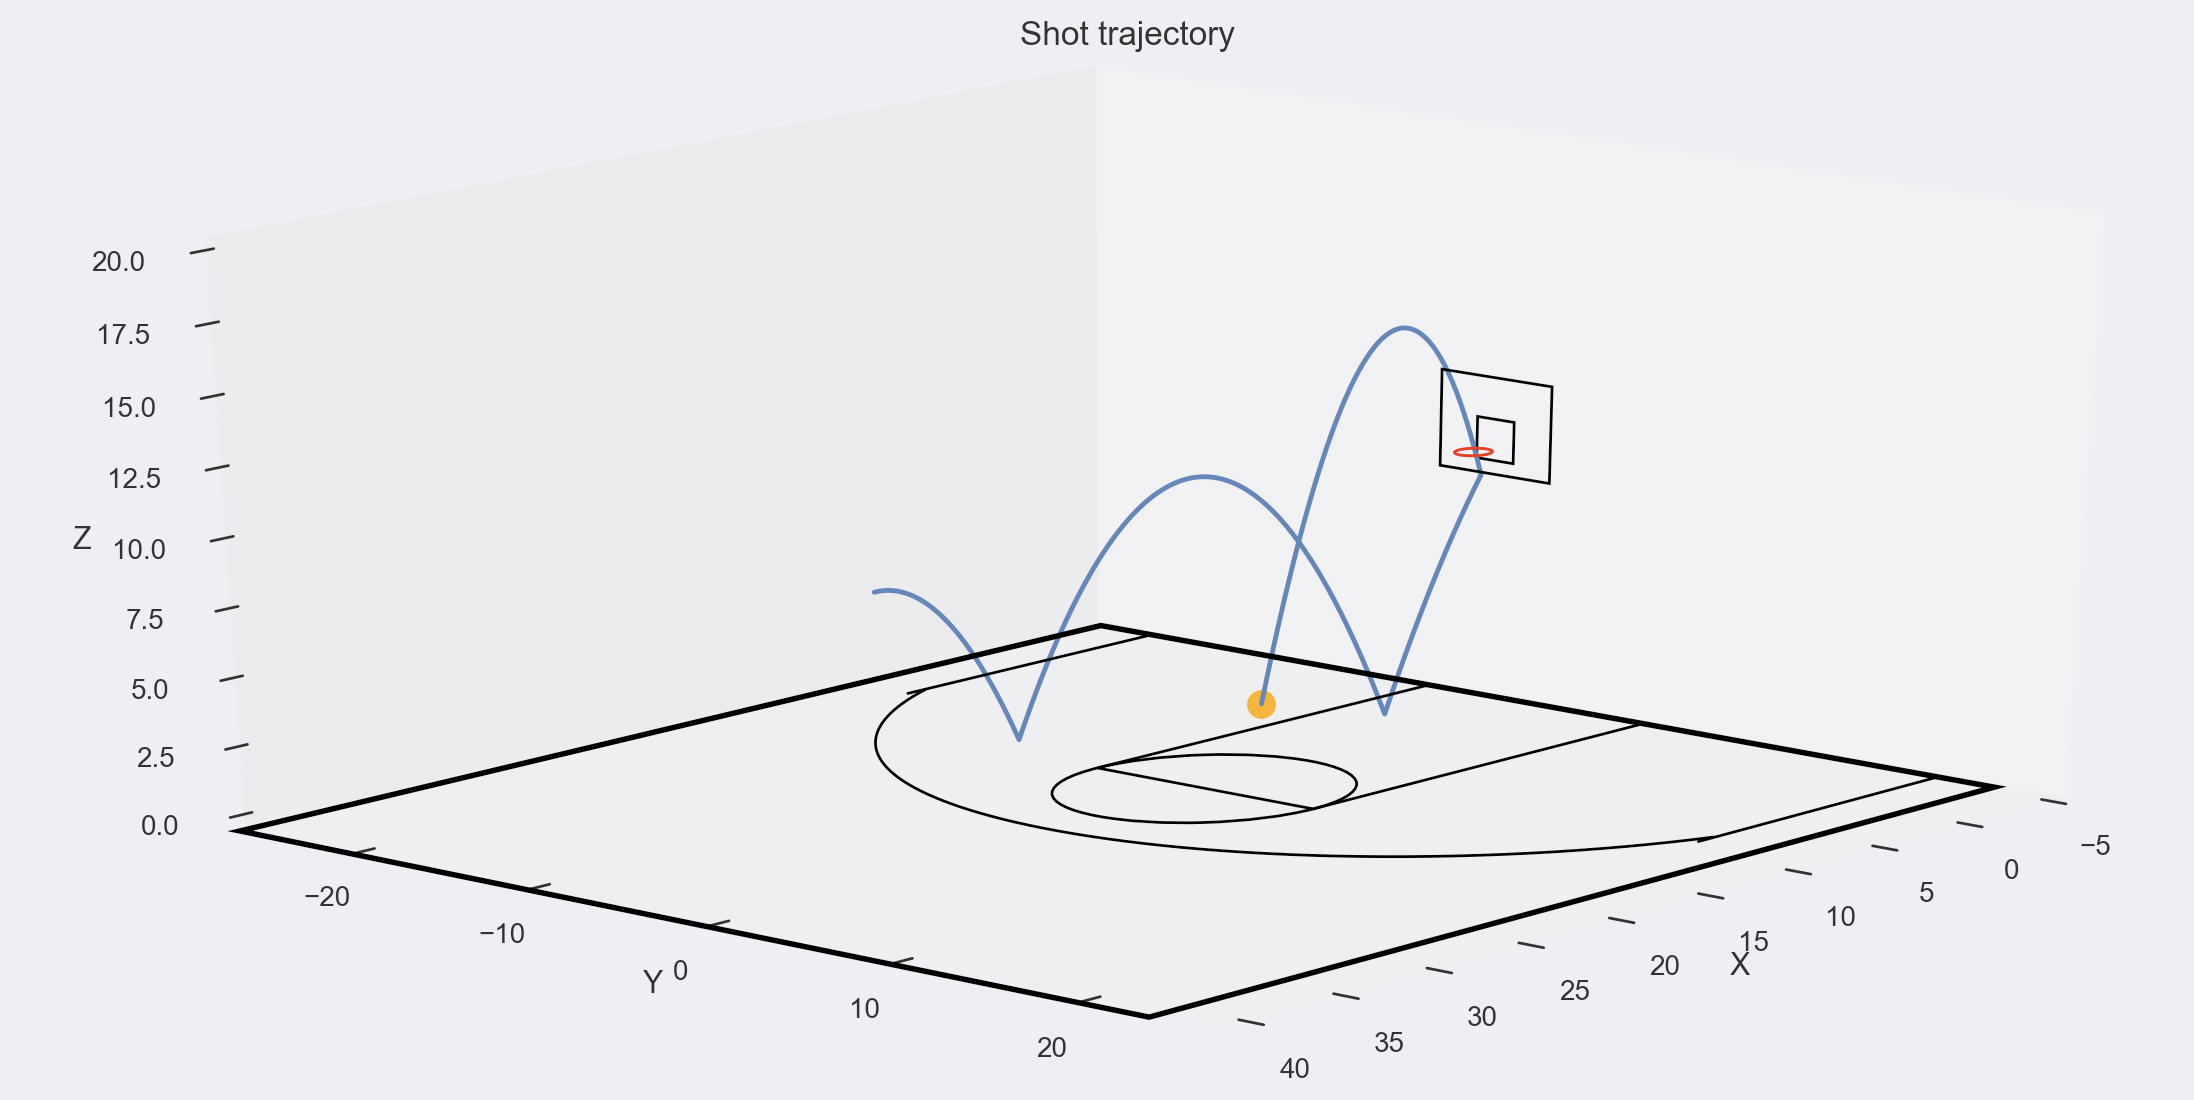
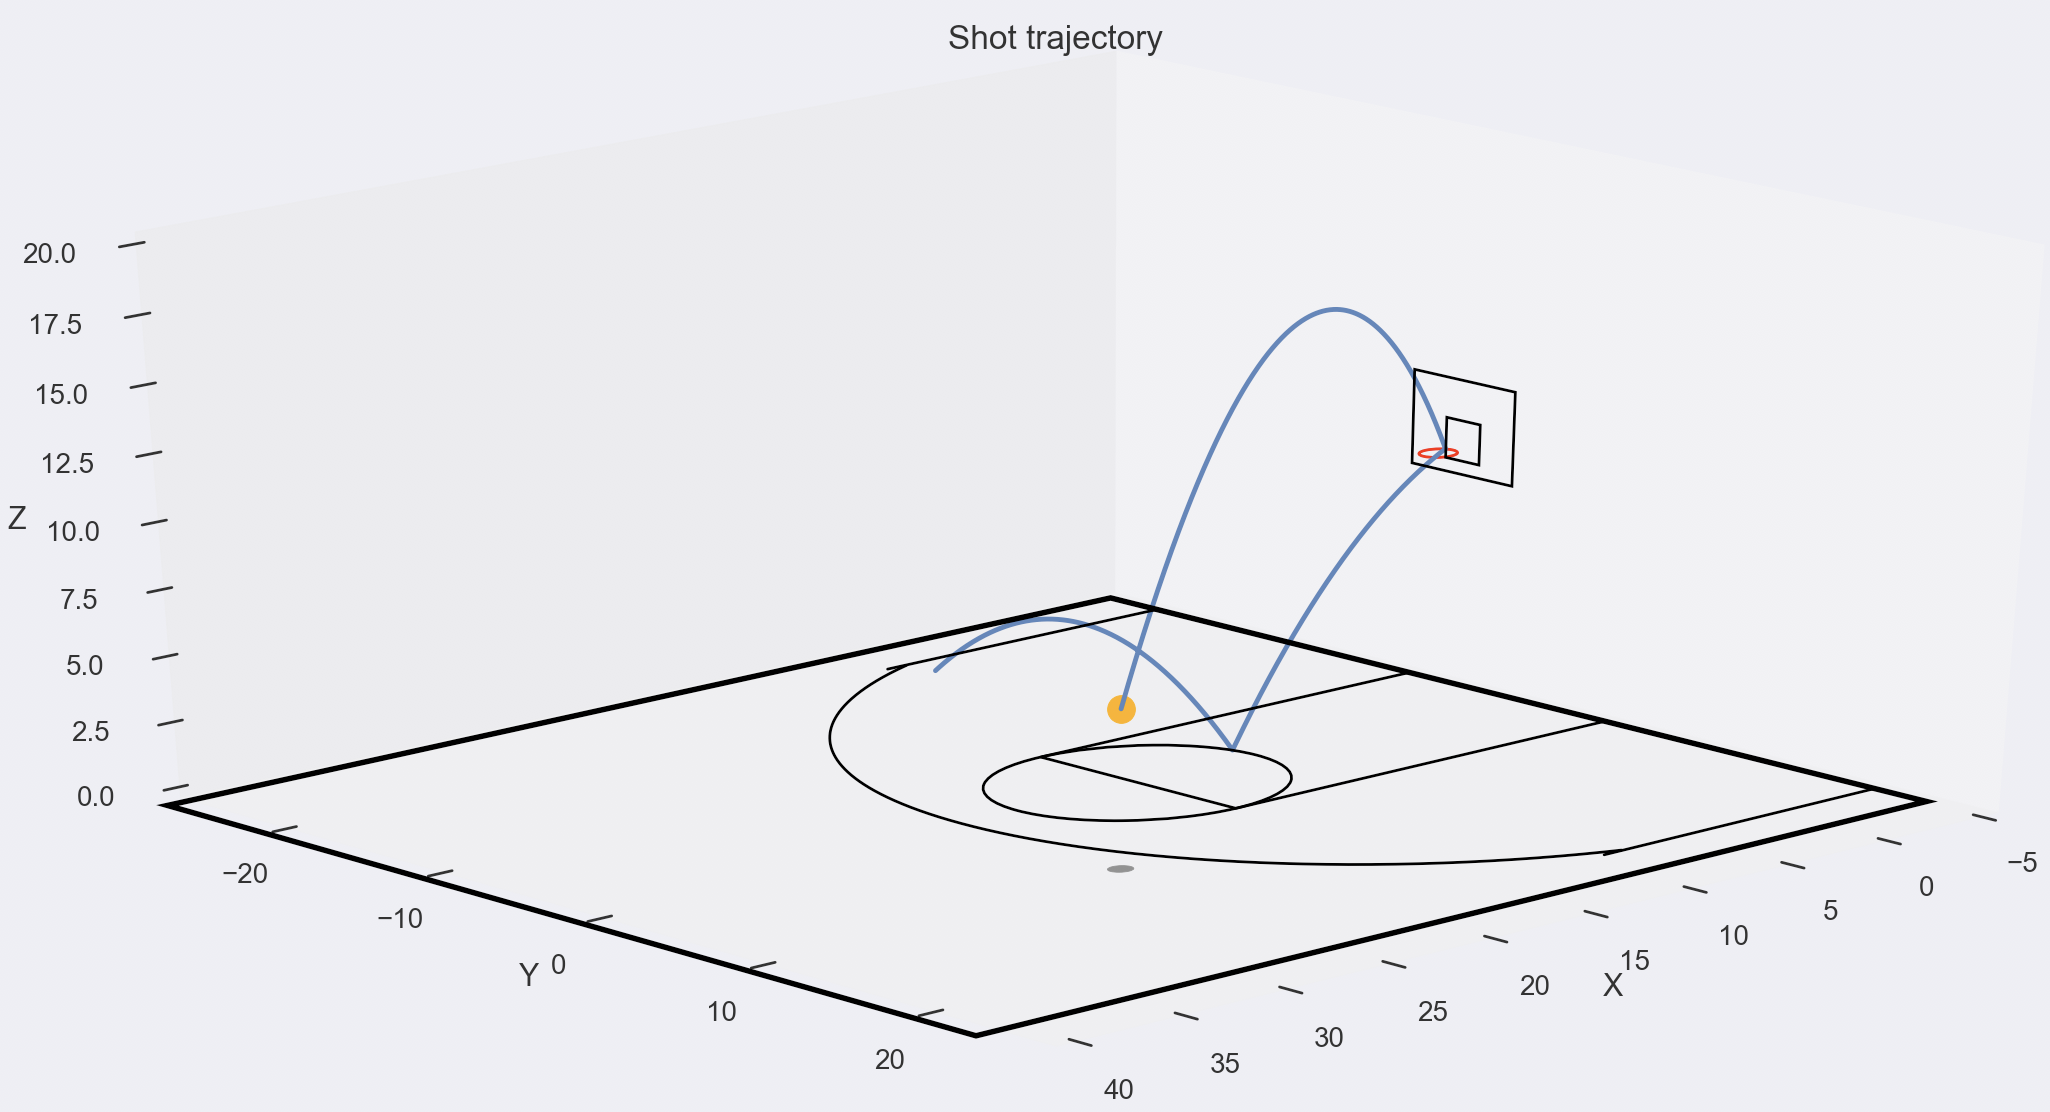
Add collision with rim connector to backboard

diff --git a/simulate.py b/simulate.py
@@ -54,11 +54,12 @@ class Ball:
         :params omega: Backspin [revolution/second]
         :params debug: Show time graphs if True
         """
+        # Units: [ft], [ft/s], [rad], [rad], [rad/s]
         self.initial = {"position": [x,y,z],
                        "speed": v,
                        "phi": np.radians(phi),
                        "theta": np.radians(theta),
-                       "omega": omega * 2 * np.pi}
+                       "omega": 2 * np.pi * omega}
         self.states = []
         self.score = False
         self.end = False
@@ -66,6 +67,7 @@ class Ball:
         # If collision within last 5 time steps (0.01 sec), don't collide again
         self.ground = np.zeros(5)
         self.rim = np.zeros(5)
+        self.rimsq = np.zeros(10)
         self.bb = np.zeros(5)
         # Shoot after initialization
         self.shot(debug)
@@ -90,7 +92,7 @@ class Ball:
         self.states.append(ics)
         nit = 0
         # Terminate either when out of bounds or 10 seconds passed
-        while not self.end and nit < 10/timestep:
+        while not self.end and nit < 3/timestep:
             derivs = self.dynamics()
             self.integrate(derivs)
             self.check_end()
@@ -115,7 +117,7 @@ class Ball:
         Fd = 0.5 * CD * rho * speed**2 * (np.pi*ball_r**2)
 
         # Magnus (omega x v)
-        Fm = 16 / 3 * np.pi**2 * ball_r**3 * rho * omega * speed
+        # Fm = 0.5 * CL * np.pi * ball_r**3 * rho * np.cross(omega, velocity)
 
         Fx = -Fd * vx / speed
         Fy = -Fd * vy / speed
@@ -159,9 +161,9 @@ class Ball:
         # Shift collision backboard, ground queues
         self.bb = np.concatenate([self.bb[1:], [0]])
         self.rim = np.concatenate([self.rim[1:], [0]])
+        self.rimsq = np.concatenate([self.rimsq[1:], [0]])
         self.ground = np.concatenate([self.ground[1:], [0]])
         # If collision with x in last 5 time steps: skip x
-
         # Backboard collision
         if self.dist_to_bb() < ball_r and np.count_nonzero(self.bb) == 0:
             delta_p[0] += (1 + ball_e2) * (-vx * ball_m)
@@ -169,12 +171,16 @@ class Ball:
             self.bb[-1] = 1
         # Rim collision
         rim_dist, rim_pt = self.dist_to_rim()
-        if rim_dist < ball_r and np.count_nonzero(self.rim) == 0:
+        if rim_dist < ball_r and x > -rim_r and np.count_nonzero(self.rim) == 0:
             normvec = np.array([x,y,z]) - np.array(rim_pt)
             normvec /= np.linalg.norm(normvec)
             delta_p -= (1 + ball_e2) * np.dot([vx, vy, vz],normvec) * normvec * ball_m
             # Set rim queue
             self.rim[-1] = 1
+        # If not rim then potentially rim connector
+        if bb_x < x < -rim_r and np.abs(y) < .25 and 10 < z < 10 + ball_r and np.count_nonzero(self.rimsq) == 0:
+            delta_p[2] += (1 + ball_e2) * (-vz * ball_m)
+            self.rimsq[-1] = 1
         # Ground collision
         if z <= ball_r and np.count_nonzero(self.ground) == 0:
             delta_p[2] += (1 + ball_e1) * (-vz * ball_m)
@@ -216,7 +222,7 @@ class Ball:
         """
         x, y, z, vx, vy, vz, omega = self.states[-1]
         # Check out of bound condition
-        if z < -1 or (not -5 < x < 45) or np.abs(y) > court_w/2:
+        if z < -1 or (not -5 < x < 45) or np.abs(y) > court_w/2:# or (self.score and z < 1):
             self.end = True
         # Scoring condition: slightly below rim and inside rim circle
         if np.linalg.norm([x,y]) < rim_r and 9.5 < z < 9.95:
@@ -233,6 +239,10 @@ class Ball:
         ax.plot(x, y, z)
         ax.scatter(x[0], y[0], z[0], color="orange", s=100)
 
+        position = Circle((x[0],y[0]),.5, color="gray")
+        ax.add_patch(position)
+        art3d.pathpatch_2d_to_3d(position)
+
         # Plot backboard rectangle
         backboard = Rectangle((-bb_l/2, bb_z_bot), bb_l, bb_h, fill=False, linewidth=1)
         ax.add_patch(backboard)
@@ -245,6 +255,10 @@ class Ball:
         rim = Circle((0, 0), rim_r, fill=False, edgecolor="red", linewidth=1)
         ax.add_patch(rim)
         art3d.pathpatch_2d_to_3d(rim, z=rim_h)
+        # Plot rim connector to backboard
+        rim_sq = Rectangle((bb_x, -.25), .5, .5, fill=True, color="red")
+        ax.add_patch(rim_sq)
+        art3d.pathpatch_2d_to_3d(rim_sq, z=10)
         # Plot half court sideline and baseline
         court = Rectangle((-4, -court_w/2), court_l/2, court_w, fill=False, linewidth=2)
         ax.add_patch(court)
@@ -301,5 +315,5 @@ class Ball:
 if __name__ == "__main__":
     # Initialize ball object with
     # (x, y, z, speed, launch_angle, side_angle, backspin)
-    ball = Ball(11, -11, 5.5, 27, 55, 0, 1)
+    ball = Ball(15, 0, 6, 27.5, 55, 0, 1, True)
     print("Scored:", ball.score)

diff --git a/README.md b/README.md
@@ -23,3 +23,5 @@ The class contains a variable `Ball.score` which is a Boolean that determines wh
 
 ## Effects Included
 The current version calculates gravity, air resistance (drag), and momentum impulse from collision with the ground, backboard, and rim. Future updates will include the Magnus effect with a set `spin` parameter and friction during collisions.
+
+Drag coefficient decreases from 0.5 to 0.2 at Re = 1e5 to Re = 2e5. The drag crisis drop are estimated numbers from "On the Size of Sport Fields (Texier et al)" which use numbers from soccer balls. "Identification of basketball parameters for a simulation model (Okubo, Hubbard)" puts a basketball CD at free fall (low Re) at 0.54.
